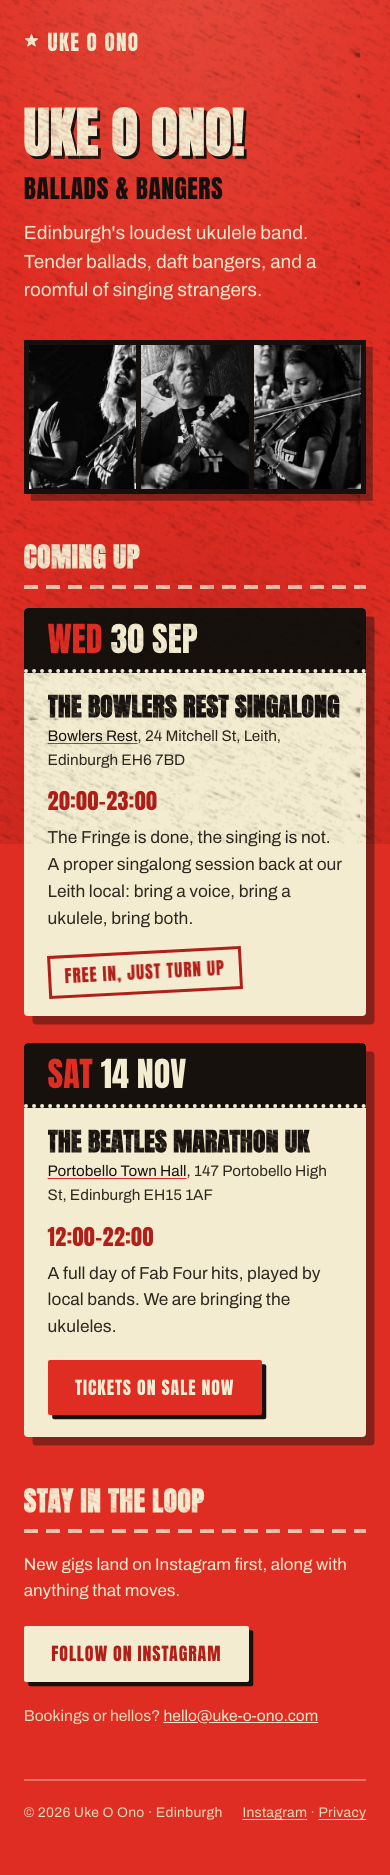
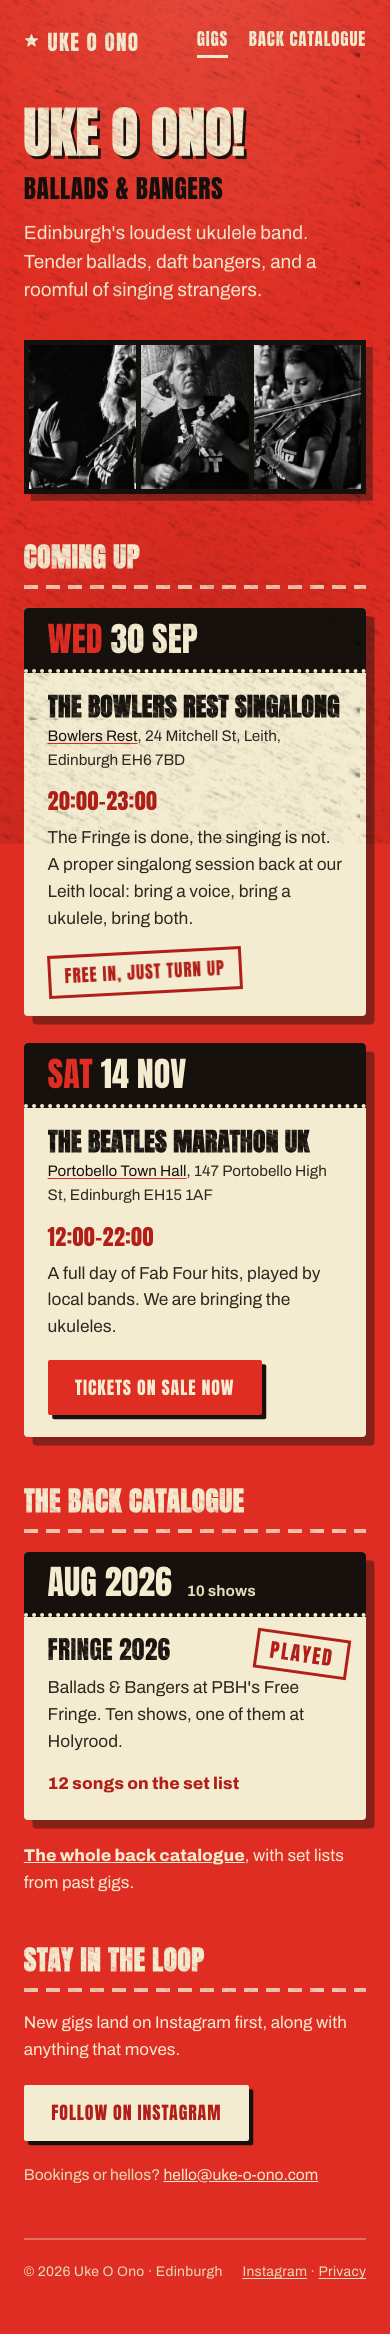
feat(site): add the back catalogue with Fringe 2026 (#75)
Past gigs the band chooses to keep get a page each under
/back-catalogue/, starting with Fringe 2026 and its set list.

- One Markdown file per entry in content/back-catalogue/, collected
  newest first in eleventy.config.js. The entry layout renders the
  set list (numbered, running order) and "Off the list" songs, each
  section only when the entry has it.
- A played gig reuses the upcoming ticket card, stamped "Played",
  on the home page (latest three) and the /back-catalogue/ index.
- Header nav: Gigs / Back catalogue. Wide pages opt in with `wide`
  front matter instead of a growing :has() selector.
- Entry media lives in static/back-catalogue/<slug>/; the PBH Free
  Fringe logo moves there, ready for photos to follow.
- Sitemap lists the index and each entry.

diff --git a/packages/site/assets/styles.css b/packages/site/assets/styles.css
@@ -78,8 +78,9 @@ body::after {
   padding: 1.5rem 1.4rem 3rem;
 }
 
-/* The home page runs wider so two gig tickets fit side by side. */
-.wrap:has(.home) {
+/* Pages that set `wide` (home, back catalogue) run wider so tickets fit
+   side by side. */
+.wrap--wide {
   max-width: var(--measure-home);
 }
 
@@ -90,8 +91,10 @@ a {
 /* ------------------------------ Header / footer ---------------------- */
 header.site {
   display: flex;
+  flex-wrap: wrap;
   align-items: center;
-  gap: 0.6rem;
+  justify-content: space-between;
+  gap: 0.6rem 1.2rem;
   padding-bottom: 1.1rem;
   margin-bottom: 0.5rem;
 }
@@ -115,6 +118,27 @@ header.site {
   color: var(--cream);
   margin-right: 0.5rem;
   font-size: 0.9rem;
+}
+
+.site-nav {
+  display: flex;
+  gap: 1.2rem;
+  font-family: Anton, sans-serif;
+  font-size: 1rem;
+  letter-spacing: 0.05em;
+  text-transform: uppercase;
+}
+
+.site-nav a {
+  color: var(--cream);
+  text-decoration: none;
+  padding-bottom: 2px;
+  border-bottom: 3px solid transparent;
+}
+
+.site-nav a:hover,
+.site-nav a[aria-current="page"] {
+  border-bottom-color: var(--cream);
 }
 
 footer.site {
@@ -281,17 +305,25 @@ footer.site {
    perforated where you'd tear it off, then what, where and when. */
 .gig-cards {
   display: grid;
-  grid-template-columns: repeat(auto-fit, minmax(min(20rem, 100%), 1fr));
+
+  /* auto-fill, not auto-fit, so a lone ticket keeps its size rather than
+     stretching across the page. */
+  grid-template-columns: repeat(auto-fill, minmax(min(26rem, 100%), 1fr));
   gap: 1.6rem;
+}
+
+/* Cream panel shared by gig tickets and set-list sheets. */
+.gig-card,
+.sheet {
+  background: var(--cream);
+  color: var(--ink);
+  border-radius: 4px;
+  box-shadow: 0.5rem 0.5rem 0 rgb(22 17 13 / 45%);
 }
 
 .gig-card {
   display: flex;
   flex-direction: column;
-  background: var(--cream);
-  color: var(--ink);
-  border-radius: 4px;
-  box-shadow: 0.5rem 0.5rem 0 rgb(22 17 13 / 45%);
 }
 
 .gig-card__date {
@@ -384,6 +416,162 @@ footer.site {
 
 .no-gigs {
   font-size: 1.12rem;
+}
+
+/* ------------------------------ Back catalogue --------------------- */
+
+/* A played gig reuses the upcoming ticket, stamped as used. */
+.gig-card--played {
+  /* The whole card is a link; keep it ink, not the global cream link. */
+  color: var(--ink);
+  text-decoration: none;
+}
+
+.gig-card--played .gig-card__body {
+  position: relative;
+}
+
+/* Leave room for the stamp. */
+.gig-card--played .venue-name {
+  padding-right: 6.5rem;
+}
+
+.gig-card--played:hover .venue-name {
+  text-decoration: underline;
+  text-decoration-color: var(--red);
+  text-decoration-thickness: 3px;
+}
+
+.gig-card__date small {
+  margin-left: 0.4rem;
+  font-family: Archivo, sans-serif;
+  font-size: 0.9rem;
+  font-weight: 700;
+  text-transform: none;
+  color: var(--cream-dim);
+}
+
+.played {
+  position: absolute;
+  top: 1rem;
+  right: 1rem;
+  padding: 0.1rem 0.7rem;
+  font-size: 1.15rem;
+  letter-spacing: 0.1em;
+  transform: rotate(8deg);
+}
+
+.gig-card__has {
+  margin-top: auto;
+  padding-top: 0.9rem;
+  font-weight: 800;
+  color: var(--red-deep);
+}
+
+.more-link {
+  margin: 1.4rem 0 0;
+}
+
+.more-link a {
+  font-weight: 800;
+}
+
+/* Entry pages and the index open with a smaller hero than the home page. */
+.hero--compact .hero-title {
+  font-size: clamp(2.8rem, 8vw, 5.2rem);
+}
+
+.back {
+  display: inline-block;
+  margin-bottom: 0.4rem;
+  font-size: 0.9rem;
+  font-weight: 700;
+}
+
+/* The festival's own logo on a small cream sticker; its artwork often shares
+   the field's red. */
+.festival-logo {
+  float: right;
+  width: 6.2rem;
+  height: 6.2rem;
+  margin: 0 0 0.6rem 1.1rem;
+  padding: 7px;
+  object-fit: contain;
+  background: var(--cream);
+  border-radius: 14px;
+  box-shadow: 0.25rem 0.25rem 0 rgb(22 17 13 / 45%);
+  transform: rotate(-5deg);
+}
+
+.entry-when {
+  font-size: clamp(1.1rem, 3vw, 1.45rem);
+  line-height: 1.2;
+}
+
+.hero-blurb p {
+  margin: 0;
+}
+
+/* The set list: a cream sheet, numbered because the order is the running
+   order. Two columns where there's room. */
+.sheet {
+  margin: 1rem 0 0;
+  padding: 1.6rem 1.8rem 1.2rem;
+}
+
+.sheet-head {
+  margin: 0 0 0.6rem;
+  border-bottom: 4px solid var(--ink);
+  font-family: Anton, sans-serif;
+  font-size: clamp(1.8rem, 5vw, 2.6rem);
+  text-transform: uppercase;
+}
+
+.songs {
+  list-style: none;
+  margin: 0;
+  padding: 0;
+  columns: 2 22rem;
+  column-gap: 2.4rem;
+}
+
+.song {
+  display: grid;
+  grid-template-columns: 2.2rem 1fr;
+  grid-template-areas:
+    "n name"
+    ". artist";
+  padding: 0.55rem 0;
+  border-bottom: 1px solid rgb(22 17 13 / 15%);
+  break-inside: avoid;
+}
+
+.song-n {
+  grid-area: n;
+  font-family: Anton, sans-serif;
+  font-size: 1.3rem;
+  color: var(--red-deep);
+}
+
+.song-name {
+  grid-area: name;
+  font-family: Anton, sans-serif;
+  font-size: 1.35rem;
+  line-height: 1.1;
+  text-transform: uppercase;
+}
+
+.song-artist {
+  grid-area: artist;
+  font-size: 0.9rem;
+  color: var(--ink-soft);
+}
+
+/* Off-list songs have no running order, so no number column. */
+.songs--extras .song {
+  grid-template:
+    "name"
+    "artist" / 1fr;
 }
 
 /* ------------------------------ Follow ------------------------------- */

diff --git a/packages/site/eleventy.config.js b/packages/site/eleventy.config.js
@@ -10,6 +10,11 @@ export default function (eleventyConfig) {
   eleventyConfig.addPassthroughCopy({ assets: "assets" });
   eleventyConfig.addPassthroughCopy({ static: "/" });
 
+  // Past gigs, one Markdown file each, newest first by their `date`.
+  eleventyConfig.addCollection("backCatalogue", (api) =>
+    api.getFilteredByGlob("./content/back-catalogue/*.md").reverse(),
+  );
+
   eleventyConfig.addGlobalData("currentYear", () => new Date().getFullYear());
   eleventyConfig.addGlobalData("analytics", () => ({
     measurementId: process.env.GA_MEASUREMENT_ID || null,

diff --git a/packages/site/content/back-catalogue/fringe-2026.md b/packages/site/content/back-catalogue/fringe-2026.md
@@ -1,0 +1,32 @@
+---
+title: Fringe 2026
+# The last show; sorts the back catalogue, newest first.
+date: 2026-08-29
+when: Aug 2026
+shows: 10
+dates: 8 to 29 August 2026
+venues: Bowlers Rest, Fingers Piano Bar and the Scottish Parliament
+summary: Ballads & Bangers at PBH's Free Fringe. Ten shows, one of them at Holyrood.
+logo:
+  src: /back-catalogue/fringe-2026/pbh-free-fringe-2026.png
+  alt: PBH's Free Fringe 2026
+setlist:
+  - { song: "Fisherman's Blues", artist: "The Waterboys" }
+  - { song: "In Hell I'll Be in Good Company", artist: "The Dead South" }
+  - { song: "Austin", artist: "Dasha" }
+  - { song: "This Is the Life", artist: "Amy Macdonald" }
+  - { song: "I've Got a Feeling", artist: "The Beatles" }
+  - { song: "Kiss Me", artist: "Sixpence None the Richer" }
+  - { song: "Losing My Religion", artist: "R.E.M." }
+  - { song: "Take Me Out", artist: "Franz Ferdinand" }
+  - { song: "I Will Wait", artist: "Mumford & Sons" }
+  - { song: "Hot Stuff", artist: "Donna Summer" }
+  - { song: "Pink Pony Club", artist: "Chappell Roan" }
+  - { song: "Dreams", artist: "The Cranberries" }
+extras:
+  - { song: "Take On Me", artist: "a-ha" }
+  - { song: "9 to 5", artist: "Dolly Parton" }
+---
+
+Ten shows in August: Bowlers Rest in Leith, Fingers Piano Bar in the New Town,
+and one very grand afternoon at Holyrood. Here's what we played.

diff --git a/README.md b/README.md
@@ -40,6 +40,22 @@ gig's own page, which its name links to), `blurb`, `venue`, `address`,
 `festival` (`name`, `url`) when it's part of one. Gigs are sorted by date and
 stay on the home page until you remove them; nothing expires automatically.
 
+## Adding to the back catalogue
+
+Past gigs worth remembering (a festival run or a big one-off) each get a
+Markdown file in `packages/site/content/back-catalogue/`, published at
+`/back-catalogue/<file-name>/` and listed newest first by `date`. Nothing is
+added automatically; see `fringe-2026.md` for the full shape:
+
+- `title`, `date` (the last show), `when` (the ticket's date bar),
+  optional `shows` (shown when more than one), `dates`, `venues`, `summary`
+  (card blurb and meta description), optional `logo` (`src`, `alt`)
+- `setlist`: the running order, each `{ song, artist }`
+- `extras`: songs played off the list, same shape
+- the body: the intro paragraph under the title
+
+Each section only renders when the entry has content for it.
+
 ## Configuration
 
 - **Domain** is centralised in `packages/cdk/src/app.ts` (`CONFIG.domain`).

diff --git a/AGENTS.md b/AGENTS.md
@@ -40,7 +40,9 @@ uke-o-ono.com is the online gig poster for Uke O Ono, an Edinburgh ukulele
 band ("Ballads & Bangers"). It is not a blog. The home page lists upcoming
 gigs from `site.json` (`gigs`). Gigs never expire automatically: the band
 decides when one comes off, so don't add date-based filtering or scheduled
-rebuilds. Instagram is the place for anything that might change.
+rebuilds. "The back catalogue" (`content/back-catalogue/*.md`) keeps set lists
+from past gigs the band chooses to add. Instagram is the place for anything
+that might change.
 Keep it minimal: fast, no build-time data fetching.
 
 ## Voice & copy
